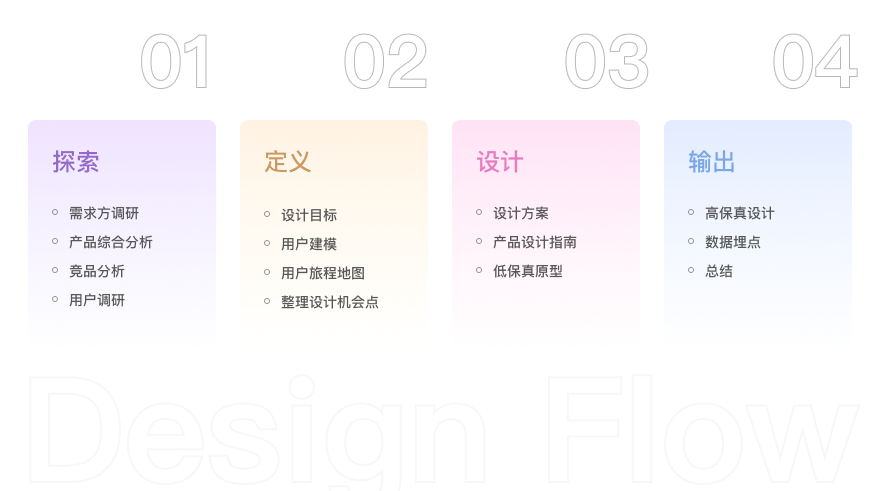
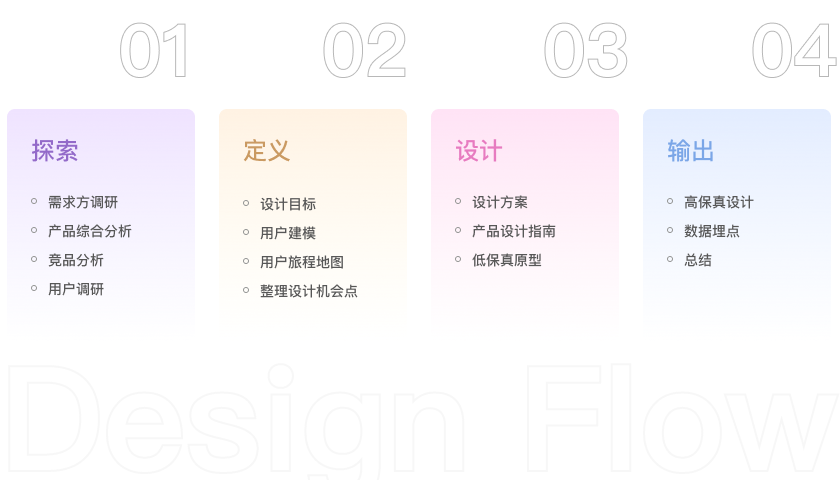
post

diff --git a/css/index.css b/css/index.css
@@ -41,7 +41,7 @@ h1,h2 {
 
 ul, ol, table, pre, dl {
   margin:0 0 10px;
-  line-height: 1.6;
+  line-height: 2;
 }
 
 h1 {
